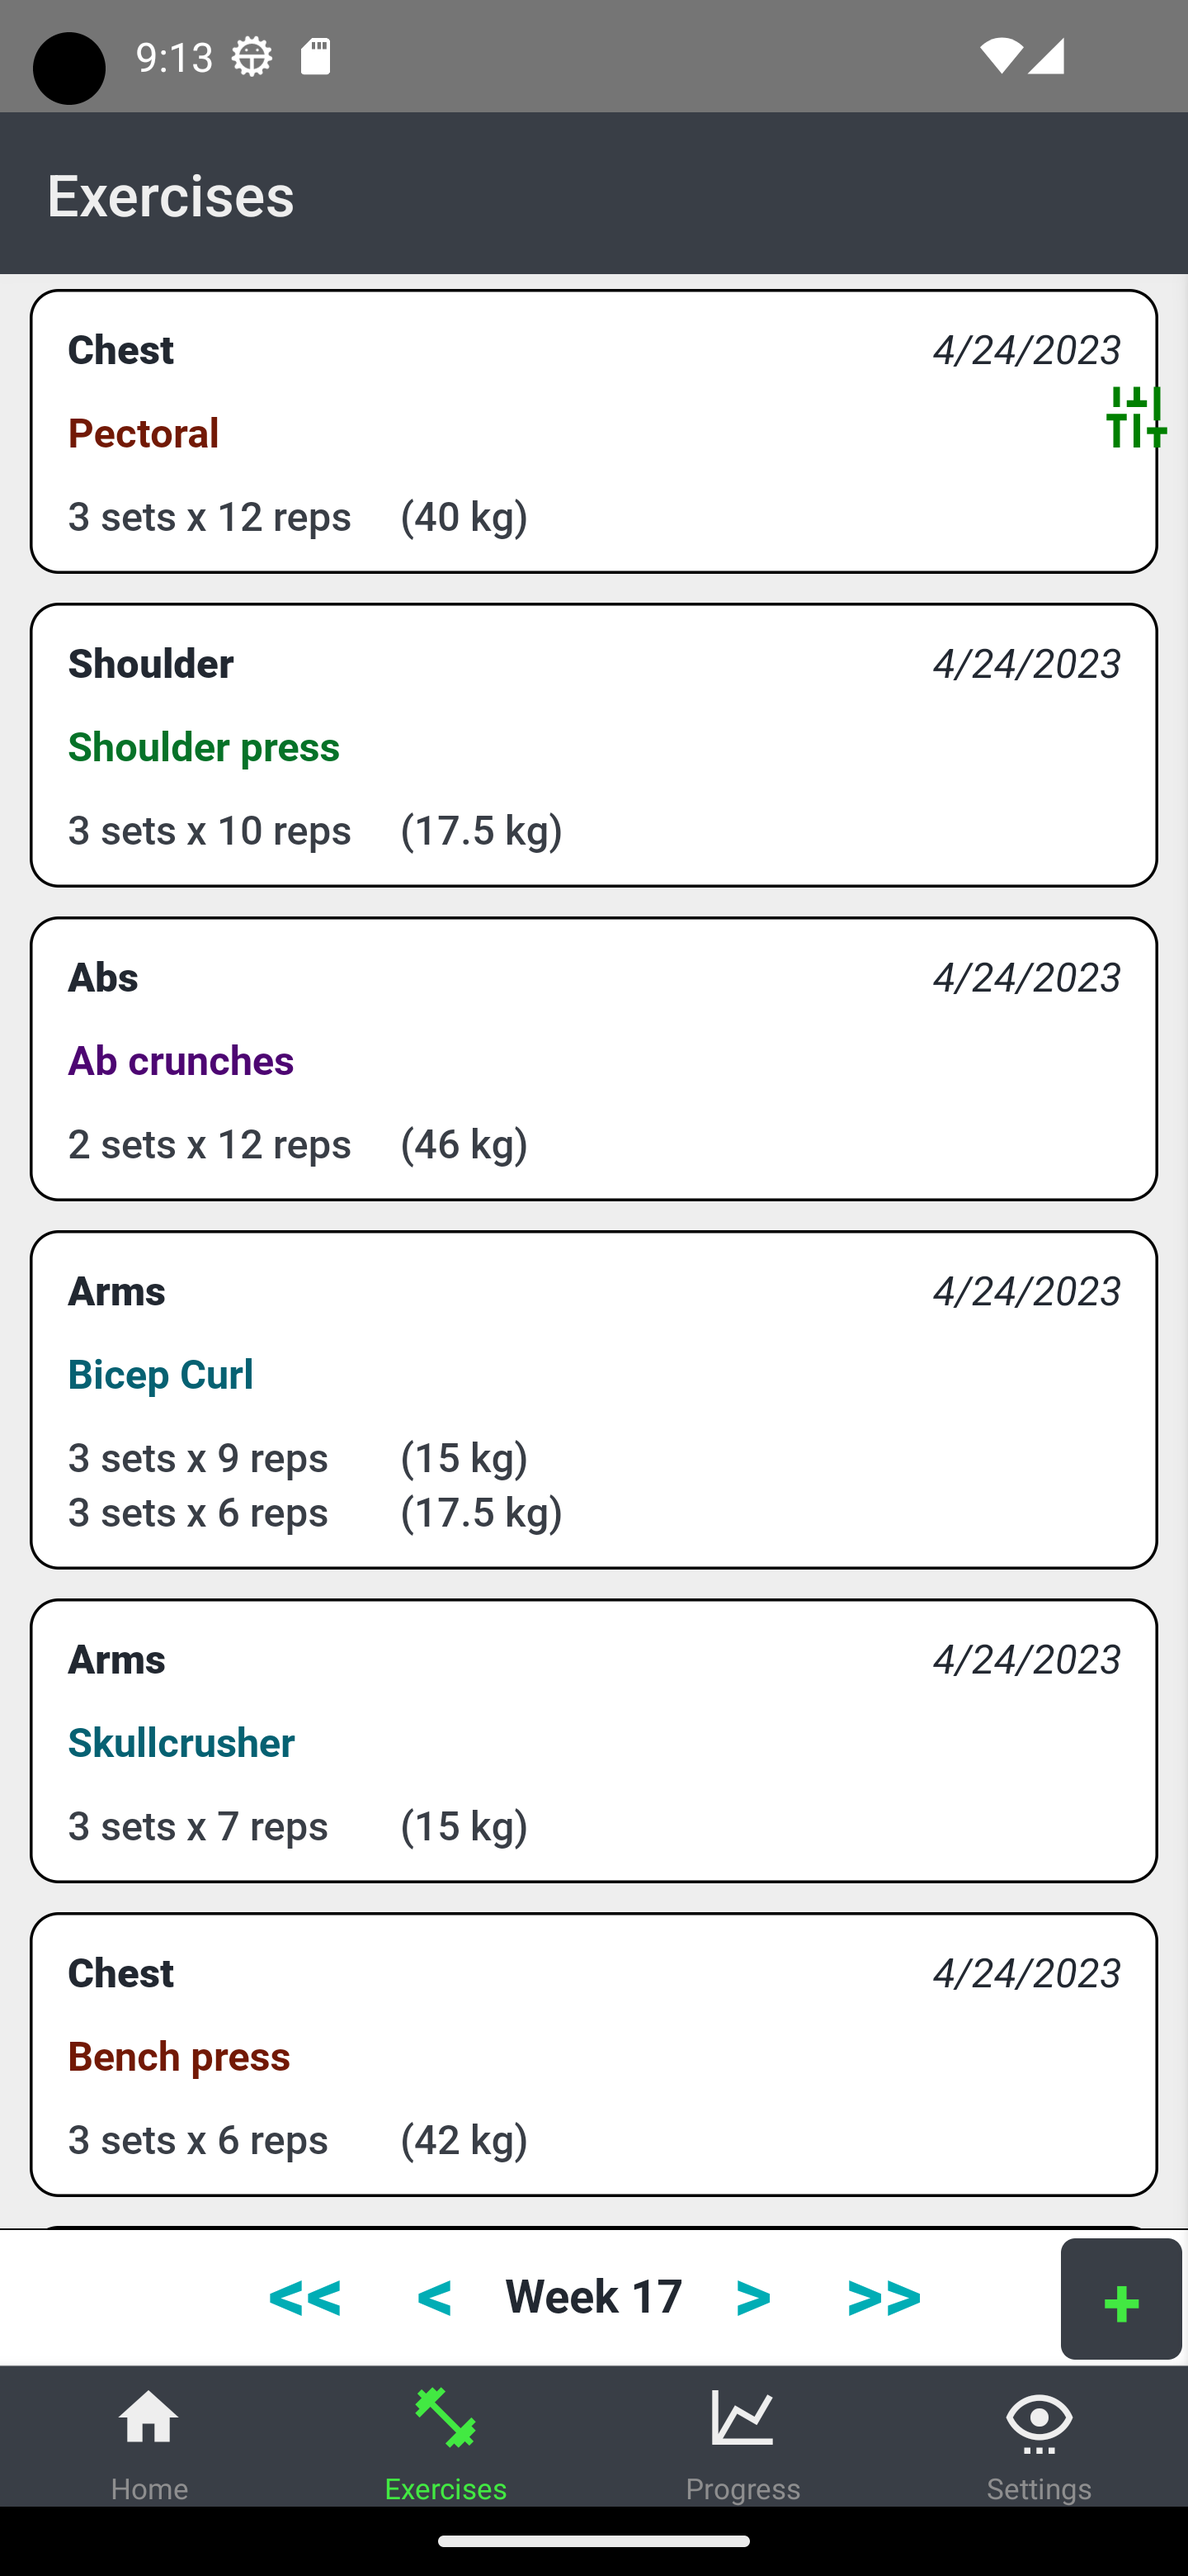
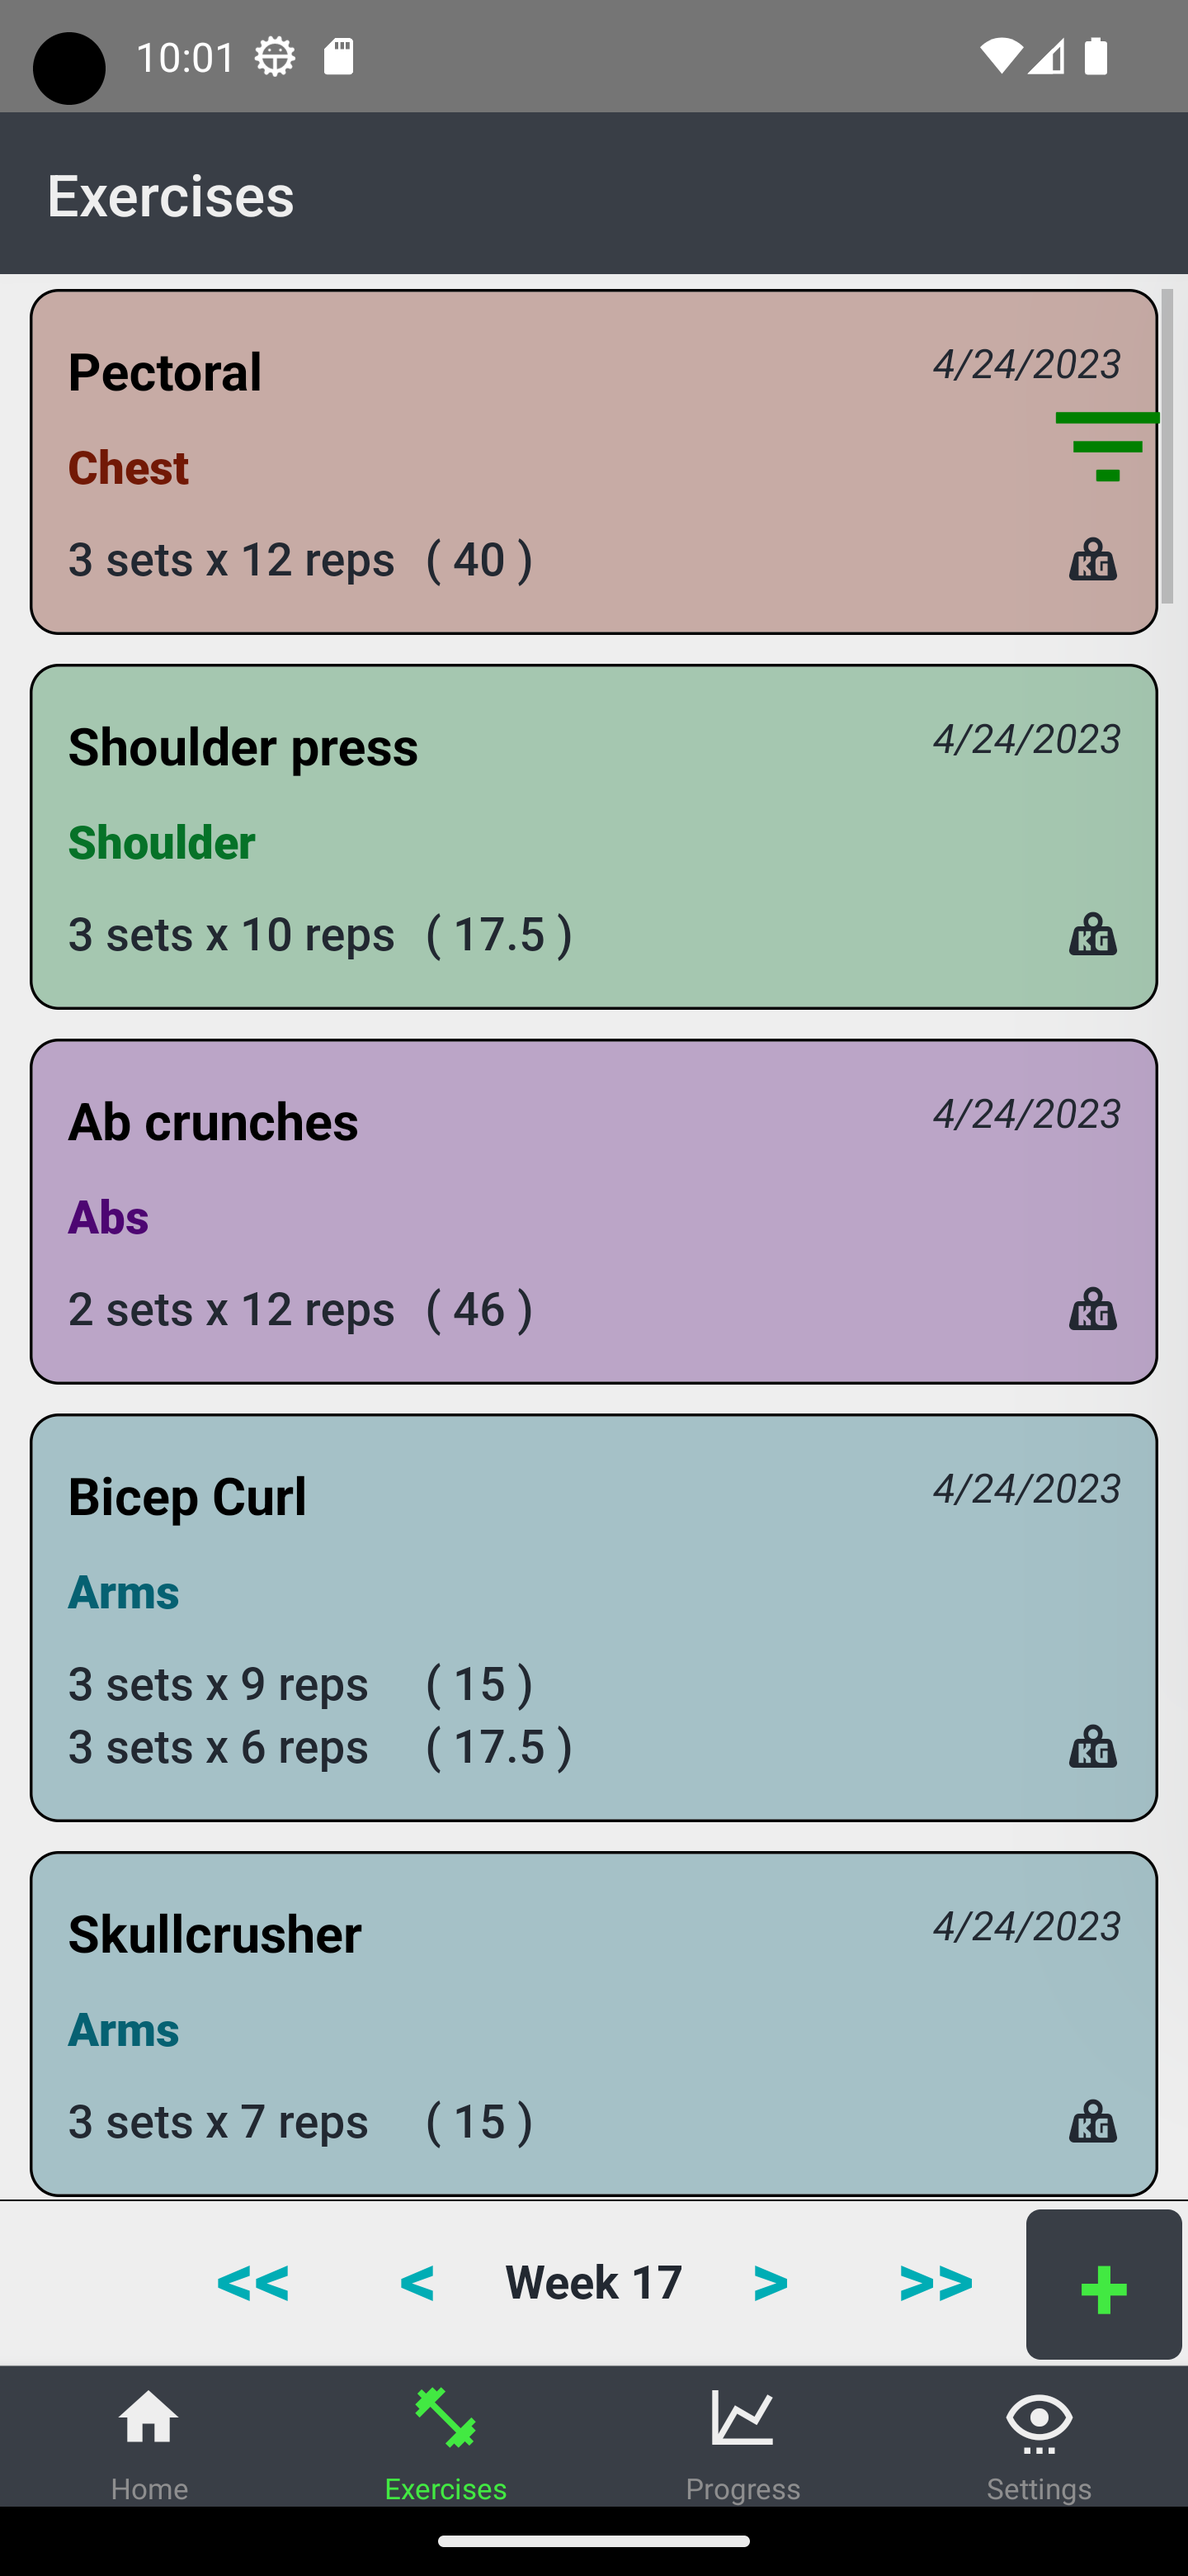
ui updates, iamges

diff --git a/src/screens/Exercise/ExerciseItem.tsx b/src/screens/Exercise/ExerciseItem.tsx
@@ -22,30 +22,25 @@ const ExerciseItem: React.FC<ExerciseItemProps> = ({item, navigation}) => {
         <View style={{minWidth: 60}}>
           <Text style={{...styles.itemText2}}>{duplicate.reps + " reps"}</Text>
         </View>
-        <View style={{minWidth: '65%'}}>
-          <Text style={{...styles.itemText2}}>{" (" + duplicate.weight} kg{")"}</Text>
+        <View style={{minWidth: '10%'}}>
+          <Text style={{...styles.itemText2}}>{" ( " + duplicate.weight} {")"}</Text>
         </View>
-        <MaterialCommunityIcons
-            adjustsFontSizeToFit
-            name={"check"}
-            size={16}
-            color={'green'}
-          />
       </View>
     );
   };
 
   return (
     <TouchableOpacity
-      style={{...styles.container, backgroundColor: 'white' }}
+      style={{...styles.container, backgroundColor: `${colors.categories[item?.exercise?.type?.category?.name as CategoryColors] + "50"}` || colors.categories.Default
+    }}
       onPress={() => navigation.navigate("Details", {exerciseId: item.exercise.id, duplicates: item.duplicates})}>
       <View style={styles.subContainer}>
-      <View style={{gap: 15, width: '100%'}}>
+      <View style={{gap: 10, width: '100%'}}>
         <View style={styles.topContainer}>
-        <Text style={{...styles.itemText2, fontFamily: 'Roboto-Medium', fontWeight: '900', fontSize: 16, color: colors.categories[item?.exercise?.type?.category?.name as CategoryColors] || colors.categories.Default } }>{item.exercise.type?.name}</Text>
-      
+        <Text style={{...styles.itemText2, fontFamily: 'Roboto-Medium', fontWeight: '900', fontSize: 18, color: 'black' } }>{item.exercise.type?.name}</Text>
           <Text style={{fontStyle: "italic", color: colors.summerDarkest}}>{item.exercise.date.toLocaleDateString()}</Text>
         </View>
+        <Text style={{...styles.itemText2, fontFamily: 'Roboto-Black', color: colors.categories[item?.exercise?.type?.category?.name as CategoryColors] || colors.categories.Default}}>{item.exercise.type?.category.name}</Text>
         <View style={{ width: '100%'}}>
         <View style={{flexDirection: "row", width: '100%'}}>
           <View >
@@ -54,15 +49,9 @@ const ExerciseItem: React.FC<ExerciseItemProps> = ({item, navigation}) => {
           <View style={{minWidth: 60}}>
             <Text style={{...styles.itemText2}}>{item.exercise.reps + " reps"}</Text>
           </View>
-          <View style={{minWidth: '65%'}}>
-          <Text style={{...styles.itemText2}}>{" (" + item.exercise.weight} kg{")"}</Text>
+          <View style={{minWidth: '10%'}}>
+          <Text style={{...styles.itemText2}}>{" ( " + item.exercise.weight} {")"}</Text>
         </View>
-        <MaterialCommunityIcons
-            adjustsFontSizeToFit
-            name={"check"}
-            size={16}
-            color={'green'}
-          />
         </View> 
         </View>
         </View>
@@ -71,6 +60,13 @@ const ExerciseItem: React.FC<ExerciseItemProps> = ({item, navigation}) => {
           renderItem={({item}) => renderDuplicate(item)}
           keyExtractor={(item, id) => id.toString()}
         />
+        <MaterialCommunityIcons
+            name={"weight-kilogram"}
+            size={20}
+            style={{position: 'absolute', bottom: 0, right: 0}}
+            color={colors.summerDarkest}
+          />
+           
       </View>
     </TouchableOpacity>
   );
@@ -102,8 +98,8 @@ const styles = StyleSheet.create({
     
   },
   itemText2: {
-    fontSize: 14,
-    fontFamily: "Roboto-MediumItalic",
+    fontSize: 16,
+    fontFamily: "Roboto-Medium",
     color: colors.summerDarkest
   },
 });

diff --git a/src/screens/Home.tsx b/src/screens/Home.tsx
@@ -1,6 +1,8 @@
 import {useFocusEffect} from "@react-navigation/native";
 import React, {useCallback, useState} from "react";
 import {SafeAreaView, View, Text} from "react-native";
+import MaterialCommunityIcons from "react-native-vector-icons/MaterialCommunityIcons";
+import Contingent from "../components/Contingent";
 import LoadingIndicator from "../components/LoadingIndicator";
 import {useCategories} from "../hooks/useCategories";
 import {useExercises} from "../hooks/useExercises";
@@ -18,12 +20,13 @@ export const Home = () => {
   const [state, setState] = useState<State>({maxExercises: 0, chartData: [], days: []});
 
   const currentDate = new Date();
-  const weekNumber = getWeekNumber(currentDate);
+  const currentUTCDate = new Date(Date.UTC(currentDate.getUTCFullYear(), currentDate.getUTCMonth(), currentDate.getUTCDate(), currentDate.getUTCHours(), currentDate.getUTCMinutes(), currentDate.getUTCSeconds()));
+  const weekNumber = getWeekNumber(currentUTCDate);
 
   const {exercises, loading: exercisesLoading} = useExercises();
   const {categories, loading: categoriesLoading} = useCategories();
   const currentExercises = exercises.filter(e => e.isValid());
-  const currentMonth = months.find(m => m.numerical === currentDate.getMonth())
+  const currentMonth = months.find(m => m.numerical === currentUTCDate.getMonth())
 
   useFocusEffect(
     useCallback(() => {
@@ -33,19 +36,11 @@ export const Home = () => {
     }, [exercisesLoading || categoriesLoading]),
   );
   if (exercisesLoading || categoriesLoading) return <LoadingIndicator />;
+  
   return (
     <SafeAreaView style={{height: '100%'}}>
-      <Text
-          style={{
-            paddingTop: 25,
-            textAlign: "center",
-            fontFamily: "Roboto-Medium",
-            fontSize: 36,
-            color: 'black',
-            fontWeight: "800"
-          }}>
-          {currentMonth?.name}, 2023
-        </Text>
+   
+        
       <Text
           style={{
             paddingTop: 25,
@@ -56,6 +51,12 @@ export const Home = () => {
           }}>
           Week {weekNumber}
         </Text>
+        <MaterialCommunityIcons
+            name={"weight-lifter"}
+            size={100}
+            style={{textAlign: 'center', paddingTop: 15}}
+            
+          />
         <Text
           style={{
             paddingTop: 25,
@@ -64,9 +65,11 @@ export const Home = () => {
             fontSize: 18,
             color: colors.summerDarkest,
           }}>
-          Day {currentDate.getDay()} of 7
+          Day {currentDate.getUTCDay()} of 7
         </Text>
-      <View style={{position: 'absolute', bottom: 50}}>
+      <View style={{width: '100%', height: '100%'}}>
+        <Contingent style={{width: '100%', height: '100%'}} shouldRender={state.maxExercises !== 0}>
+          <View style={{flexDirection: 'column', alignSelf: 'flex-end', paddingTop: 100}}>
         <Chart
           maxExercises={state.maxExercises}
           chartData={state.chartData}
@@ -74,6 +77,9 @@ export const Home = () => {
           mode="Categories"
           isLandScape={false}
         />
+        </View>
+        <View style={{width: '100%', justifyContent: 'center', height: '100%'}}><Text style={{textAlign: 'center', fontFamily: 'Roboto-Bold'}}>No data found, add some exercises.</Text></View>
+        </Contingent>
       </View>
     </SafeAreaView>
   );

diff --git a/src/screens/Exercise/AddExercise/AddExercise.tsx b/src/screens/Exercise/AddExercise/AddExercise.tsx
@@ -43,7 +43,7 @@ const AddExercise: React.FC<Props> = ({navigation, previousExercise}) => {
 
   const _refresh = async () => {
     await refresh()
-    onCategoryChange(state.category?.id || 0)
+    onCategoryChange(state.category?.id || 1)
   }
 
   const handleAddExercise = async () => {
@@ -64,10 +64,10 @@ const AddExercise: React.FC<Props> = ({navigation, previousExercise}) => {
   };
 
   const onCategoryChange = async (categoryId: number) => {
-    if(categories[categoryId] === undefined) {console.log(categories); return}
-    const exerciseTypes = await fetchExerciseTypesByCategory(categories[categoryId].id)
-    dispatch({type: "setItAll", payload: {exerciseType: exerciseTypes[0], exerciseTypes: exerciseTypes, category: categories[categoryId]}})
-    categoryRef.current = categoryId + 1
+    if(categories[categoryId - 1] === undefined) {console.log(categories); return}
+    const exerciseTypes = await fetchExerciseTypesByCategory(categories[categoryId - 1].id)
+    dispatch({type: "setItAll", payload: {exerciseType: exerciseTypes[0], exerciseTypes: exerciseTypes, category: categories[categoryId - 1]}})
+    categoryRef.current = categoryId
   }
 
   const onWeightChange = (value: number | string, validWeight: boolean) => {
@@ -77,7 +77,7 @@ const AddExercise: React.FC<Props> = ({navigation, previousExercise}) => {
   useEffect(() => {
     if(categoriesLoading) return
     if(previousExercise) {
-      if(state.category && state.category.id !== previousExercise?.type?.category.id) onCategoryChange(state.category ? state.category.id : 0)
+      if(state.category && state.category.id !== previousExercise?.type?.category.id) onCategoryChange(state.category ? state.category.id : 1)
       return
     }
     if (categories.length > 0 && categoryRef.current !== state?.category?.id) onCategoryChange(state.category?.id || 1)
@@ -85,7 +85,8 @@ const AddExercise: React.FC<Props> = ({navigation, previousExercise}) => {
 
   if(categoriesLoading) return <LoadingIndicator />
   
-  console.log("rendering add exercise")
+
+  console.log("renderinga dd exercise")
 
   return (
     <SafeAreaView style={styles.container}>

diff --git a/src/screens/Exercise/ExerciseListBtm.tsx b/src/screens/Exercise/ExerciseListBtm.tsx
@@ -31,7 +31,7 @@ export const ExerciseListBtm: React.FC<ExerciseListBtmProps> = ({
       <CustomButton
           titleColor={currentPage === 0 ? colors.summerDark : colors.summerBlue}
           onPress={handleGoToFirstPage}
-          backgroundColor={'white'}
+          backgroundColor={colors.summerWhite}
           size="S"
           fontSize={26}
           title={"<<"}
@@ -40,7 +40,7 @@ export const ExerciseListBtm: React.FC<ExerciseListBtmProps> = ({
           size="S"
           titleColor={currentPage === 0 ? colors.summerDark : colors.summerBlue}
           fontSize={26}
-          backgroundColor={'white'}
+          backgroundColor={colors.summerWhite}
           onPress={handlePrevPage}
           title={"<"}
         />
@@ -48,7 +48,7 @@ export const ExerciseListBtm: React.FC<ExerciseListBtmProps> = ({
         <CustomButton
           titleColor={currentPage === maxPage ? colors.summerDark : colors.summerBlue}
           onPress={handleNextPage}
-          backgroundColor={'white'}
+          backgroundColor={colors.summerWhite}
           size="S"
           fontSize={26}
           title={">"}
@@ -56,7 +56,7 @@ export const ExerciseListBtm: React.FC<ExerciseListBtmProps> = ({
          <CustomButton
           titleColor={currentPage === maxPage ? colors.summerDark : colors.summerBlue}
           onPress={handleGoToLastPage}
-          backgroundColor={'white'}
+          backgroundColor={colors.summerWhite}
           size="S"
           fontSize={26}
           title={">>"}
@@ -81,7 +81,7 @@ const styles = StyleSheet.create({
     gap: 3,
     alignItems: "center",
     justifyContent: "center",
-    backgroundColor: 'white',
+    backgroundColor: colors.summerWhite,
     width: "100%",
     paddingTop: -3,
     paddingBottom: 5,

diff --git a/src/config/realm.ts b/src/config/realm.ts
@@ -73,32 +73,23 @@ export class MonthSchema extends Realm.Object {
 
 const realmConfig: Realm.Configuration = {
   schema: [ExerciseSchema, ExerciseTypeSchema, CategorySchema, MonthSchema],
-  schemaVersion: 10,
+  schemaVersion: 11,
   onMigration: migration,
 };
 
 function migration(oldRealm: Realm, newRealm: Realm) {
-  const exercises = oldRealm.objects("Exercise");
-  if(oldRealm.schemaVersion < 10){
-  for (let i = 0; i < exercises.length; i++) {
-    const exercise = exercises[i] as ExerciseSchema; // cast to ExerciseSchema type
-    const date = exercise.date; // should not produce an error now
-    const month = date.getMonth();
-    const year = date.getFullYear().toString();
+  if(oldRealm.schemaVersion < 11){
+  const oldCategories = oldRealm.objects<CategorySchema>("Category");
+  const hasCategoryWithId0 = oldCategories.findIndex(c => c.id === 0) !== -1;
 
-    // Find or create the corresponding MonthSchema object
-    
-    let monthObj = newRealm.objects("Month").filtered("year == $0 AND month == $1", year, month)[0] as MonthSchema;
+  if (hasCategoryWithId0) {
+    const oldCategoryObjects = newRealm.objects<CategorySchema>("Category");
+    oldCategoryObjects.forEach(category => category.id += 1)
+      
+    };
+   
+}}
 
-    if (!monthObj) {
-      const id = newRealm.objects("Month").length + 1
-      const newMonth = {id: id, year: year, month: month, exerciseCount: 1};
-      newRealm.create("Month", newMonth);
-    } else {
-      monthObj.exerciseCount++;
-    }
-  }}
-}
 
 
 

diff --git a/src/components/SideBar.tsx b/src/components/SideBar.tsx
@@ -19,7 +19,7 @@ export const SideBar: React.FC<SideBarProps> = ({categories, onFilterChange, ico
     categories.map(() => new Animated.Value(0)),
   );
 
-const SidebarVisibleWidth = 48;
+const SidebarVisibleWidth = 50;
   const [sidebarVisible, setSidebarVisible] = useState(true);
   const [translateX] = useState(new Animated.Value(0));
   const [selectedCategories, setSelectedCategories] = useState<CategorySchema[]>([]);
@@ -117,12 +117,11 @@ const styles = StyleSheet.create({
   sidebar: {
     position: "absolute",
     top: 0,
-    bottom: 0,
     zIndex: 1000,
-    elevation: 5, // Add box shadow on Android
-    shadowColor: "#000", // Add box shadow on iOS
+    elevation: 55, // Add box shadow on Android
+    shadowColor: colors.summerDarkest, // Add box shadow on iOS
     shadowOffset: {width: 0, height: 2},
-    shadowOpacity: 0.25,
+    shadowOpacity: 0.5,
     shadowRadius: 3.84,
     backgroundColor: colors.summerWhite,
   },

diff --git a/src/screens/ProgressTracking/ProgressTracking.tsx b/src/screens/ProgressTracking/ProgressTracking.tsx
@@ -104,7 +104,7 @@ const ProgressTracking = () => {
   if (categoriesLoading || monthsLoading) return <View style={{height: '100%', width: '100%'}}><LoadingIndicator /></View>
   
 
-  if(state.chartData.length === 0 || availableMonths.length === 0) return <View style={{justifyContent: 'center', width: '100%', height: '100%', alignItems: 'center'}}><Text>No data found, add some exercises</Text></View>
+  if(state.chartData.length === 0 || availableMonths.length === 0) return <View style={{justifyContent: 'center', width: '100%', height: '100%', alignItems: 'center'}}><Text style={{fontFamily: 'Roboto-Bold'}}>No data found, add some exercises</Text></View>
   
   return (
     <SafeAreaView style={{width: "100%", height: "100%", justifyContent: "center", alignItems: "center", gap: 20}}>

diff --git a/src/screens/Settings/ExerciseTypes.tsx b/src/screens/Settings/ExerciseTypes.tsx
@@ -83,7 +83,7 @@ export function ExerciseTypes() {
                 </View>
                 {visible && (
                   <NewObjectModal
-                    name="Category"
+                    name="Exercise Type"
                     visible={visible}
                     modalFunction={onEdit}
                     id={c.id}

diff --git a/src/screens/Exercise/AddExercise/Modal/AddObject.tsx b/src/screens/Exercise/AddExercise/Modal/AddObject.tsx
@@ -41,7 +41,7 @@ const AddObject = ({isCategory, s}: Props) => {
         />
         </View>
       <NewObjectModal
-      name={name}
+      name={name === 'Category' ? 'Exercise Type' : 'Category'}
         visible={modalVisible}
         onClose={closeModal}
         onAdd={handleAdd}
